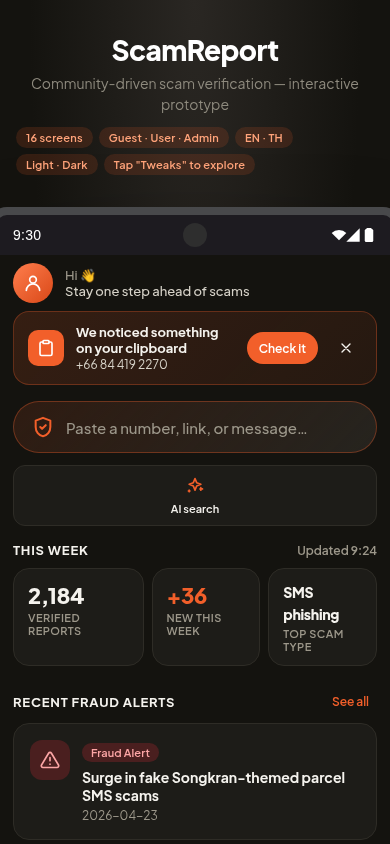
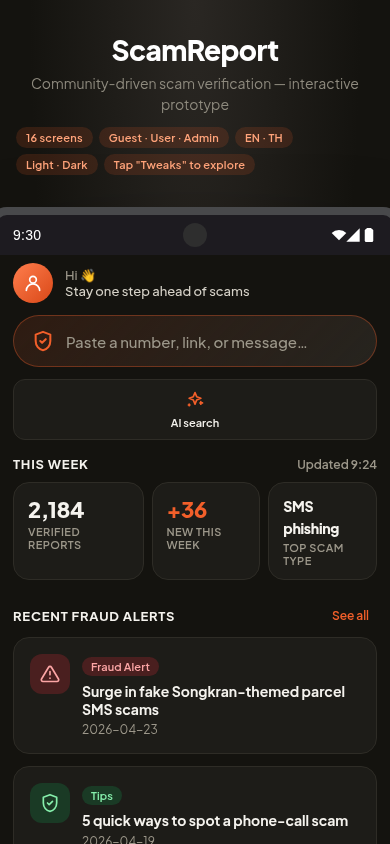
fix(portfolio): resolve ScamReport duplicate screen, PII leak, and DroneAid cover image
- Recapture ScamReport 01-guest-feed.png with clipboard banner dismissed (zero phone numbers)
- Recapture ScamReport 02-user-report.png with incident submission form (zero phone numbers)
- Drop duplicate 03-admin-dashboard.png and renumber moderation queue to 03 and feed search to 04
- Update DroneAid coverImage in src/data/projects.ts to 04-admin-map.png for high-contrast card readability
- Synchronize about.md documentation in content/, src/content/, and ~/Documents/Portfolio/
- Verify all images have zero phone numbers, emails, tokens, or PII leaks
- Refresh proof screenshots for desktop and mobile viewports

diff --git a/src/data/projects.ts b/src/data/projects.ts
@@ -47,7 +47,7 @@ export const PROJECTS: Project[] = [
     teamLabel: 'Group Project · KMUTT CSC291',
     teamCredit: '5-person team (CSC291 at KMUTT, 2026). Aekarut Phetpradit served as Team Lead and Backend Architect, authoring backend Cloud Functions (callables, triggers, scheduled ticks), Firestore security rules with comprehensive test suites, role-aware routing guards, and the emulator dev loop.',
     repoUrl: 'https://github.com/AokDesu/CSC291-DroneAid',
-    coverImage: '/src/content/projects/mobile-apps/droneaid/01-login-screen.png',
+    coverImage: '/src/content/projects/mobile-apps/droneaid/04-admin-map.png',
     images: [
       {
         srcPath: '/src/content/projects/mobile-apps/droneaid/01-login-screen.png',
@@ -87,23 +87,19 @@ export const PROJECTS: Project[] = [
     images: [
       {
         srcPath: '/src/content/projects/mobile-apps/scamreport/01-guest-feed.png',
-        caption: 'Public scam incident discovery feed captured from standalone interactive prototype at mobile viewport (390×844).',
+        caption: 'Public scam incident discovery dashboard and fraud alerts captured from standalone interactive prototype with clipboard banner dismissed (390×844).',
       },
       {
         srcPath: '/src/content/projects/mobile-apps/scamreport/02-user-report.png',
-        caption: 'Multi-step incident reporting form with evidence attachment captured from standalone interactive prototype (390×844).',
+        caption: 'Multi-step incident reporting form with fraud category selection and evidence attachments captured from standalone interactive prototype (390×844).',
       },
       {
-        srcPath: '/src/content/projects/mobile-apps/scamreport/03-admin-dashboard.png',
-        caption: 'Moderation administrative overview with real-time statistics captured from standalone interactive prototype (390×844).',
+        srcPath: '/src/content/projects/mobile-apps/scamreport/03-moderation-queue.png',
+        caption: 'Content review, triage metrics, and report moderation queue captured from standalone interactive prototype (390×844).',
       },
       {
-        srcPath: '/src/content/projects/mobile-apps/scamreport/04-moderation-queue.png',
-        caption: 'Content review, evidence inspection, and report approval queue captured from standalone interactive prototype (390×844).',
-      },
-      {
-        srcPath: '/src/content/projects/mobile-apps/scamreport/05-feed-search.png',
-        caption: 'Incident search by category, phone number, and account number captured from standalone interactive prototype (390×844).',
+        srcPath: '/src/content/projects/mobile-apps/scamreport/04-feed-search.png',
+        caption: 'Verified incident database feed filterable by scam category with community report counts captured from standalone interactive prototype (390×844).',
       },
     ],
   },

diff --git a/content/mobile-apps/scamreport/about.md b/content/mobile-apps/scamreport/about.md
@@ -16,8 +16,7 @@ A community-driven incident reporting and scam intelligence mobile application d
 - **Source Code**: [GitHub Repository (CSC234-UserCenteredMobileApp/ScamReport)](https://github.com/CSC234-UserCenteredMobileApp/ScamReport)
 
 ## Image Production
-- `01-guest-feed.png`: Public scam incident discovery feed captured from standalone interactive prototype at mobile viewport (390×844).
-- `02-user-report.png`: Multi-step incident reporting form with evidence attachment captured from standalone interactive prototype (390×844).
-- `03-admin-dashboard.png`: Moderation administrative overview with real-time statistics captured from standalone interactive prototype (390×844).
-- `04-moderation-queue.png`: Content review, evidence inspection, and report approval queue captured from standalone interactive prototype (390×844).
-- `05-feed-search.png`: Incident search by category, phone number, and account number captured from standalone interactive prototype (390×844).
+- `01-guest-feed.png`: Public scam incident discovery dashboard and fraud alerts captured from standalone interactive prototype with clipboard banner dismissed at mobile viewport (390×844).
+- `02-user-report.png`: Multi-step incident reporting form with fraud category selection and evidence attachments captured from standalone interactive prototype (390×844).
+- `03-moderation-queue.png`: Content review, triage metrics, and report moderation queue captured from standalone interactive prototype (390×844).
+- `04-feed-search.png`: Verified incident database feed filterable by scam category with community report counts captured from standalone interactive prototype (390×844).

diff --git a/src/content/projects/mobile-apps/scamreport/about.md b/src/content/projects/mobile-apps/scamreport/about.md
@@ -16,8 +16,7 @@ A community-driven incident reporting and scam intelligence mobile application d
 - **Source Code**: [GitHub Repository (CSC234-UserCenteredMobileApp/ScamReport)](https://github.com/CSC234-UserCenteredMobileApp/ScamReport)
 
 ## Image Production
-- `01-guest-feed.png`: Public scam incident discovery feed captured from standalone interactive prototype at mobile viewport (390×844).
-- `02-user-report.png`: Multi-step incident reporting form with evidence attachment captured from standalone interactive prototype (390×844).
-- `03-admin-dashboard.png`: Moderation administrative overview with real-time statistics captured from standalone interactive prototype (390×844).
-- `04-moderation-queue.png`: Content review, evidence inspection, and report approval queue captured from standalone interactive prototype (390×844).
-- `05-feed-search.png`: Incident search by category, phone number, and account number captured from standalone interactive prototype (390×844).
+- `01-guest-feed.png`: Public scam incident discovery dashboard and fraud alerts captured from standalone interactive prototype with clipboard banner dismissed at mobile viewport (390×844).
+- `02-user-report.png`: Multi-step incident reporting form with fraud category selection and evidence attachments captured from standalone interactive prototype (390×844).
+- `03-moderation-queue.png`: Content review, triage metrics, and report moderation queue captured from standalone interactive prototype (390×844).
+- `04-feed-search.png`: Verified incident database feed filterable by scam category with community report counts captured from standalone interactive prototype (390×844).
